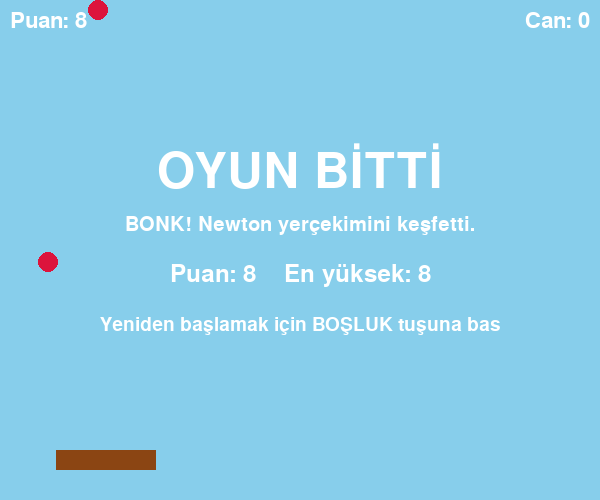
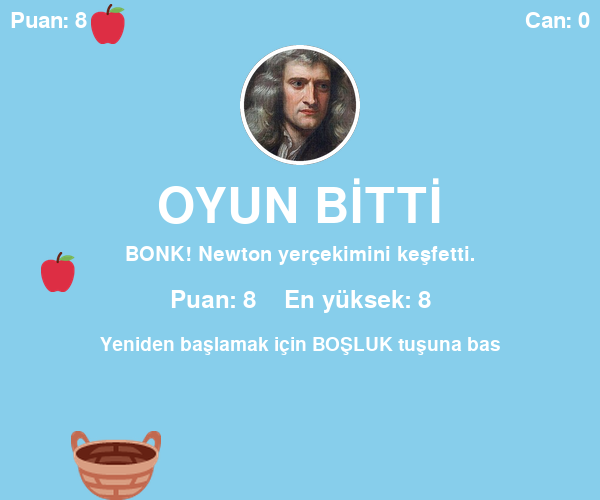
Elma ve sepet resimli Actor oldu, oyun sonuna Newton portresi eklendi

diff --git a/oyun.py b/oyun.py
@@ -26,10 +26,12 @@ DUSME_HIZI = 3         # elmalar oyunun başında ne kadar hızlı düşecek
 
 
 # ---------- OYUNDAKİ ŞEYLER ----------
-# Rect bir dikdörtgen demek: Rect(soldan, yukarıdan, genişlik, yükseklik)
+# Actor, oyundaki resimli bir nesne demek. Resmini "images" klasöründe
+# kendi adıyla arar: Actor("sepet") → images/sepet.png
+# Actor'ün x ve y'si resmin ORTASIDIR. Kenarları da var: left, right, top, bottom.
 # Dikkat: ekranda aşağı indikçe sayılar BÜYÜR. En üst 0, en alt 500.
 
-sepet = Rect(250, 450, 100, 20)  # sepet ekranın altında duruyor
+sepet = Actor("sepet", midbottom=(WIDTH / 2, HEIGHT))  # sepet en altta, ortada duruyor
 elmalar = []         # ekrandaki bütün elmaları tutan liste (başta boş)
 puan = 0             # kaç elma yakaladın
 canlar = 3           # kaç elma daha kaçırabilirsin
@@ -41,9 +43,9 @@ oyun_bitti = False   # oyun bitti mi? Başta "hayır" (False)
 
 def yeni_elma():
     # Pencerenin hemen üstünde, rastgele bir yerde yeni bir elma yap
-    x = random.randint(0, WIDTH - 20)  # 20 çıkarıyoruz ki elma sağdan taşmasın
-    elma = Rect(x, -20, 20, 20)        # -20: elma ekranın biraz üstünden gelsin
-    elmalar.append(elma)               # yeni elmayı listeye ekle
+    x = random.randint(20, WIDTH - 20)  # kenarlarda 20 boşluk: elma pencereden taşmasın
+    elma = Actor("elma", (x, -20))      # -20: elma ekranın biraz üstünden gelsin
+    elmalar.append(elma)                # yeni elmayı listeye ekle
 
 
 # ---------- YENİ OYUN ----------
@@ -55,7 +57,7 @@ def yeni_oyun():
     canlar = 3
     oyun_bitti = False
     elmalar.clear()  # listedeki bütün elmaları sil
-    sepet.x = 250    # sepeti ortaya geri koy
+    sepet.x = WIDTH / 2  # sepeti ortaya geri koy
 
 
 # ---------- EKRANI ÇİZ ----------
@@ -63,26 +65,27 @@ def yeni_oyun():
 # Renkler (kırmızı, yeşil, mavi) karışımıdır; her biri 0 ile 255 arasında.
 
 def draw():
-    screen.fill((135, 206, 235))                   # her yeri gökyüzü mavisine boya
-    screen.draw.filled_rect(sepet, (139, 69, 19))  # kahverengi sepeti çiz
+    screen.fill((135, 206, 235))  # her yeri gökyüzü mavisine boya
+    sepet.draw()                  # sepetin resmini çiz
 
     for elma in elmalar:  # listedeki her elma için...
-        screen.draw.filled_circle(elma.center, 10, (220, 20, 60))  # ...kırmızı bir daire çiz
+        elma.draw()       # ...elmanın resmini çiz
 
     # Sol üste puanı, sağ üste kalan canları yaz
     screen.draw.text(f"Puan: {puan}", topleft=(10, 10), fontsize=32, color="white")
     screen.draw.text(f"Can: {canlar}", topright=(WIDTH - 10, 10), fontsize=32, color="white")
 
-    # Oyun bittiyse ekranın ortasına büyük harflerle yaz
+    # Oyun bittiyse Newton'u göster ve ekranın ortasına büyük harflerle yaz
     if oyun_bitti:
         orta = WIDTH / 2
-        screen.draw.text("OYUN BİTTİ", center=(orta, 170), fontsize=72, color="white")
+        screen.blit("newton", (orta - 60, 45))  # images/newton.png, 120 nokta genişliğinde
+        screen.draw.text("OYUN BİTTİ", center=(orta, 205), fontsize=72, color="white")
         screen.draw.text("BONK! Newton yerçekimini keşfetti.",
-                         center=(orta, 225), fontsize=30, color="white")
+                         center=(orta, 255), fontsize=30, color="white")
         screen.draw.text(f"Puan: {puan}    En yüksek: {en_yuksek}",
-                         center=(orta, 275), fontsize=36, color="white")
+                         center=(orta, 300), fontsize=36, color="white")
         screen.draw.text("Yeniden başlamak için BOŞLUK tuşuna bas",
-                         center=(orta, 325), fontsize=28, color="white")
+                         center=(orta, 345), fontsize=28, color="white")
 
 
 # ---------- HER ŞEYİ HAREKET ETTİR ----------

diff --git a/README.md b/README.md
@@ -41,6 +41,7 @@ Debian/Ubuntu'da `pip` yerine `sudo apt install python3-pgzero` da olur.
 | Döngü | `for elma in elmalar[:]` ekrandaki her elmayı tek tek aşağı indirir |
 | Koşul | `if sepet.colliderect(elma)` elma sepete değdi mi? `elif elma.top > HEIGHT` yere mi düştü? |
 | Fonksiyon | `yeni_elma` her saniye yeni bir elma yapar, `yeni_oyun` her şeyi sıfırlar |
+| Actor (resimli nesne) | `Actor("elma")` resmini `images/elma.png` dosyasından alır, `elma.draw()` ile çizilir |
 
 `draw`, `update` ve `on_key_down` fonksiyonlarını kodun içinde hiç çağırmıyoruz:
 PyGame Zero bu isimleri bulur ve onları kendisi çağırır (`draw` ile `update` saniyede 60 kez,
@@ -49,11 +50,20 @@ PyGame Zero bu isimleri bulur ve onları kendisi çağırır (`draw` ile `update
 ## Kendin dene
 
 1. `HIZ = 12` yap. Sepet nasıl değişti?
-2. Sepeti daralt: `Rect(250, 450, 50, 20)`. Oyun zorlaştı mı?
+2. Elmanın resmini değiştir: kendi çizdiğin bir resmi `images/elma.png` adıyla kaydet ve oyunu yeniden çalıştır.
 3. Arka planın rengini değiştir. İpucu: renkler (kırmızı, yeşil, mavi) karışımıdır; gece için `(20, 24, 60)` dene.
 4. **Altın elma:** Bazen sarı bir elma düşsün ve yakalayınca 5 puan versin.
-   İpucu: `yeni_elma` içinde `random.randint(1, 10) == 1` ise elmayı ayrı bir `altin_elmalar` listesine ekle.
+   İpucu: `yeni_elma` içinde `random.randint(1, 10) == 1` ise `Actor("altin_elma")` yap ve ayrı bir `altin_elmalar` listesine ekle.
 
 ## Lisans
 
-[MIT](LICENSE): kopyala, değiştir, derste kullan, kendi oyununa dönüştür.
+Kod [MIT](LICENSE) lisanslı: kopyala, değiştir, derste kullan, kendi oyununa dönüştür.
+
+Görseller kendi lisanslarıyla kullanıldı:
+
+- **Elma ve sepet** (`images/elma.png`, `images/sepet.png`): [Twemoji](https://github.com/jdecked/twemoji),
+  © Twitter, Inc. ve katkıda bulunanlar, [CC-BY 4.0](https://creativecommons.org/licenses/by/4.0/).
+  Kırpılıp yeniden boyutlandırıldı.
+- **Newton portresi** (`images/newton.png`): Godfrey Kneller, 1689,
+  [Wikimedia Commons](https://commons.wikimedia.org/wiki/File:GodfreyKneller-IsaacNewton-1689.jpg), kamu malı.
+  Yuvarlak kırpıldı.
